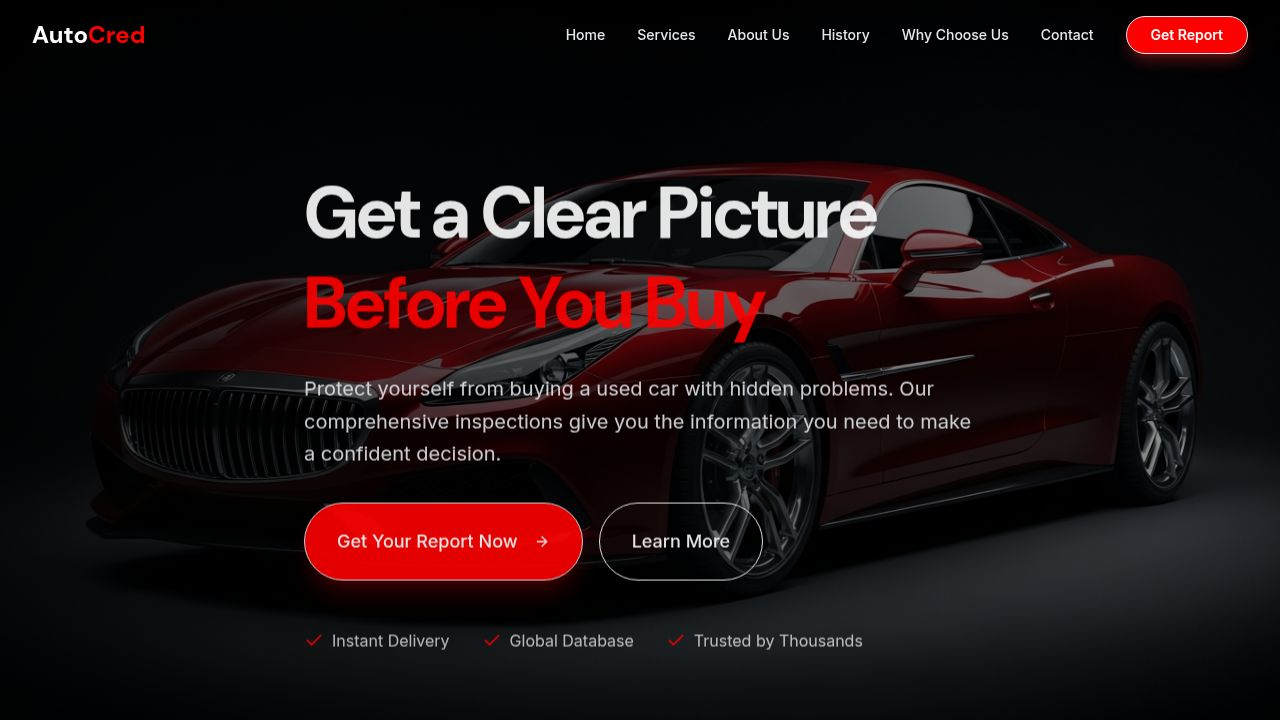
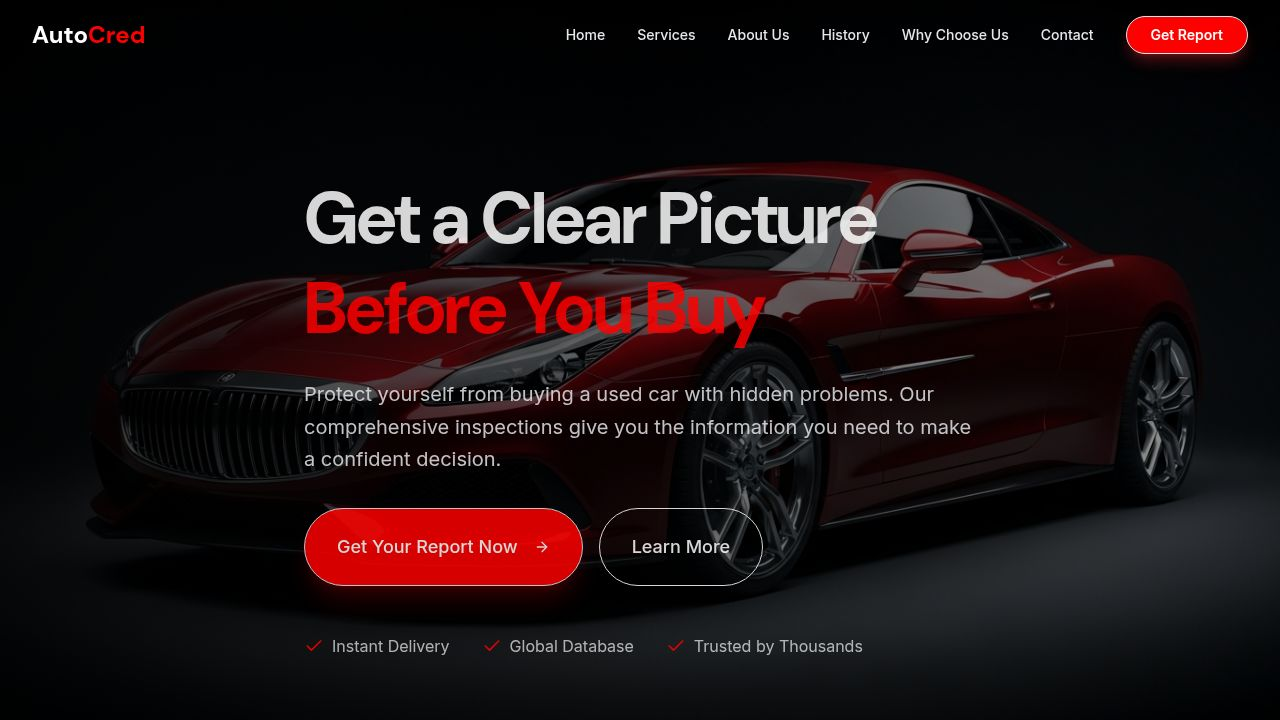
Use separate email templates for contact and report forms
Update client configuration to use distinct EmailJS template IDs for the contact and report forms.

Replit-Commit-Author: Agent
Replit-Commit-Session-Id: 026f27db-0b82-4806-9569-41834cabefa2
Replit-Commit-Checkpoint-Type: full_checkpoint
Replit-Commit-Event-Id: 5d9d75c3-ddfd-40f9-a6de-b20c7b8909ec
Replit-Commit-Screenshot-Url: https://storage.googleapis.com/screenshot-production-us-central1/f6ce586e-2ad5-4ee1-80b4-6f16f9a3d08f/026f27db-0b82-4806-9569-41834cabefa2/lQCP9NQ
Replit-Helium-Checkpoint-Created: true

diff --git a/client/src/config.ts b/client/src/config.ts
@@ -8,7 +8,8 @@ export const config = {
   emailjs: {
     publicKey: "YOUR_EMAILJS_PUBLIC_KEY",
     serviceId: "YOUR_EMAILJS_SERVICE_ID",
-    templateId: "template_jnkxpve",
+    reportTemplateId: "template_jnkxpve",
+    contactTemplateId: "YOUR_CONTACT_TEMPLATE_ID",
     contactEmail: "autocredinspection@gmail.com"
   },
 

diff --git a/client/src/components/Contact.tsx b/client/src/components/Contact.tsx
@@ -38,7 +38,7 @@ export function Contact() {
     try {
       emailjs.send(
         config.emailjs.serviceId,
-        config.emailjs.templateId,
+        config.emailjs.contactTemplateId,
         templateParams
       );
       toast.success("Message sent to " + CONTACT_EMAIL + "! We'll get back to you shortly.");

diff --git a/client/src/components/ReportForm.tsx b/client/src/components/ReportForm.tsx
@@ -48,7 +48,7 @@ export function ReportForm() {
       emailjs
         .send(
           config.emailjs.serviceId,
-          config.emailjs.templateId,
+          config.emailjs.reportTemplateId,
           templateParams
         )
         .then((response) => {
